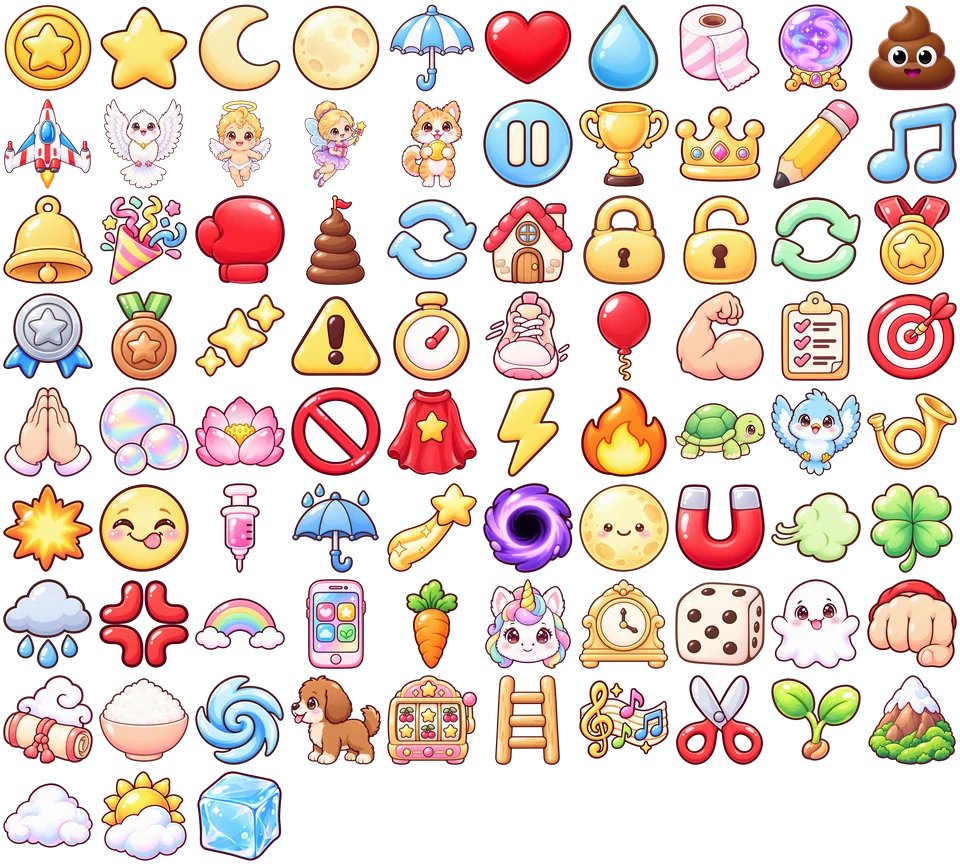
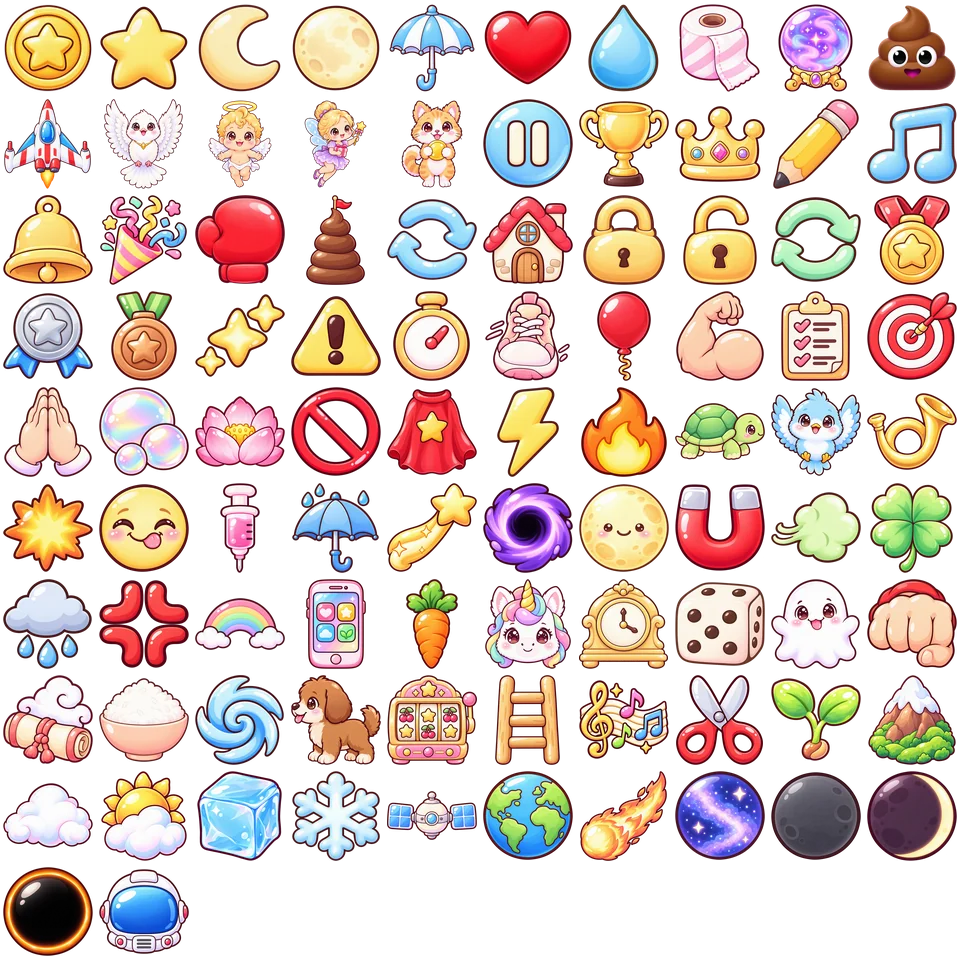
v0.8.16 우주 지대 아이콘 9종 추가 — 이모지 아이콘 전부 교체 완료 (92종)

diff --git a/index.html b/index.html
@@ -1017,7 +1017,7 @@
        밀어 숨길 뿐 남겨 두어 textContent 가 그대로다(글자를 읽는 코드가 안 깨진다). 나중에 붙는 글자는 MutationObserver 가 잡는다.
      · 캔버스 글자: fillText/strokeText 를 감싸 이모지 자리에 그림을 그린다 — 자리 폭은 원래 이모지 폭 그대로라 배치가 안 바뀐다.
      그림이 아직 안 왔거나 목록에 없는 이모지는 원래 이모지로 나온다. */
-  /*ICONS-BEGIN*/ const ICON_KEYS = ["🪙", "⭐", "🌙", "🌕", "☂", "❤", "💧", "🧻", "🔮", "💩", "🚀", "🕊", "👼", "🧚", "🐈", "⏸", "🏆", "👑", "✏", "🎵", "🔔", "🎉", "🥊", "🗼", "🔄", "🏠", "🔒", "🔓", "🔁", "🥇", "🥈", "🥉", "✨", "⚠", "⏱", "🏃", "🎈", "💪", "📋", "🎯", "🙏", "🫧", "🧘", "🚫", "🦸", "⚡", "🔥", "🐢", "🐦", "📯", "💥", "😋", "💉", "☔", "🌠", "🕳", "🌝", "🧲", "💨", "🍀", "🌧", "💢", "🌈", "📱", "🥕", "🦄", "🕰", "🎲", "👻", "👊", "👯", "🍚", "🌀", "🐕", "🎰", "🪜", "🎼", "✂", "🌱", "⛰", "☁", "🌤", "🧊"]; const ICON_COLS = 10, ICON_ROWS = 9, ICON_CELL = 96; /*ICONS-END*/
+  /*ICONS-BEGIN*/ const ICON_KEYS = ["🪙", "⭐", "🌙", "🌕", "☂", "❤", "💧", "🧻", "🔮", "💩", "🚀", "🕊", "👼", "🧚", "🐈", "⏸", "🏆", "👑", "✏", "🎵", "🔔", "🎉", "🥊", "🗼", "🔄", "🏠", "🔒", "🔓", "🔁", "🥇", "🥈", "🥉", "✨", "⚠", "⏱", "🏃", "🎈", "💪", "📋", "🎯", "🙏", "🫧", "🧘", "🚫", "🦸", "⚡", "🔥", "🐢", "🐦", "📯", "💥", "😋", "💉", "☔", "🌠", "🕳", "🌝", "🧲", "💨", "🍀", "🌧", "💢", "🌈", "📱", "🥕", "🦄", "🕰", "🎲", "👻", "👊", "👯", "🍚", "🌀", "🐕", "🎰", "🪜", "🎼", "✂", "🌱", "⛰", "☁", "🌤", "🧊", "❄", "🛰", "🌍", "☄", "🌌", "🌑", "🌒", "⚫", "🧑🚀"]; const ICON_COLS = 10, ICON_ROWS = 10, ICON_CELL = 96; /*ICONS-END*/
   const ICON_IDX = new Map(ICON_KEYS.map((k, i) => [k, i]));
   const ICON_RE = ICON_KEYS.length ? new RegExp("(" + ICON_KEYS.slice().sort((a, b) => b.length - a.length)
     .map(k => k.replace(/[.*+?^${}()|[\]\\]/g, "\\$&")).join("|") + ")\\uFE0F?", "gu") : null;
@@ -1136,7 +1136,7 @@
   const elTitle = document.getElementById("overTitle");
   const coinNote = document.getElementById("coinNote");
 
-  const GAME_VERSION = "v0.8.15";
+  const GAME_VERSION = "v0.8.16";
   /* 제작사 스플래시(bamhobak friends 로고) — 2026-09-20 끔. 다시 켜려면 true */
   const SPLASH_USE = false;   // 코드를 고칠 때마다 뒤 두 자리를 올린다
   document.getElementById("ver").textContent = GAME_VERSION;

diff --git a/README.md b/README.md
@@ -5,7 +5,7 @@
 👉 **플레이: https://bamhobak.github.io/ddongpi/**
 
 > 이 문서는 `index.html` 의 실제 값을 옮겨 적은 것입니다. 숫자를 고쳤으면 여기도 같이 고쳐 주세요.
-> 마지막으로 맞춰 본 판: **v0.8.15**
+> 마지막으로 맞춰 본 판: **v0.8.16**
 
 ## 조작
 - 📱 모바일: 화면 아무 데나 손가락을 대고 좌우로 **끌기** (누른 자리가 기준점 — 순간이동하지 않음). 조작은 이 하나뿐입니다 — 십자패드는 v0.8.02 에 없앴습니다
